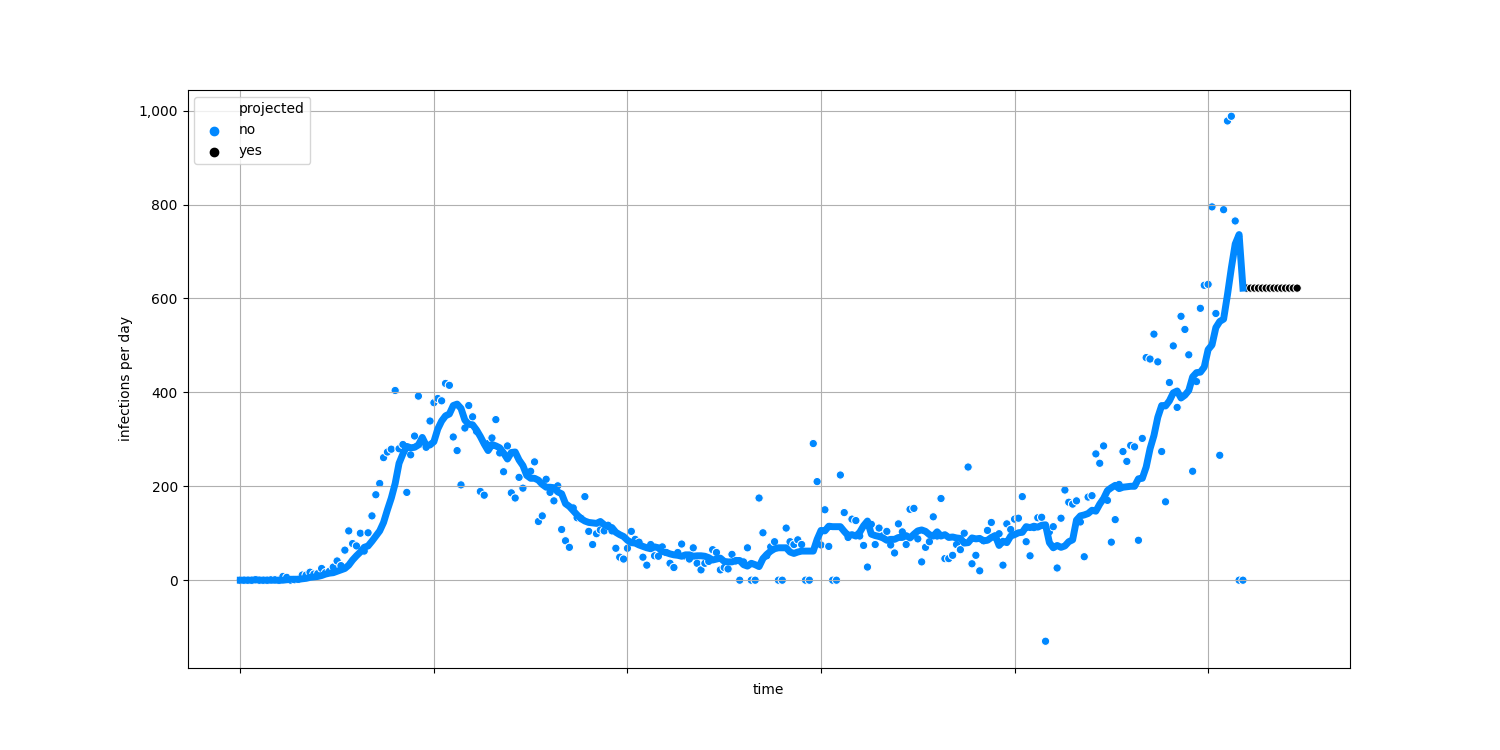
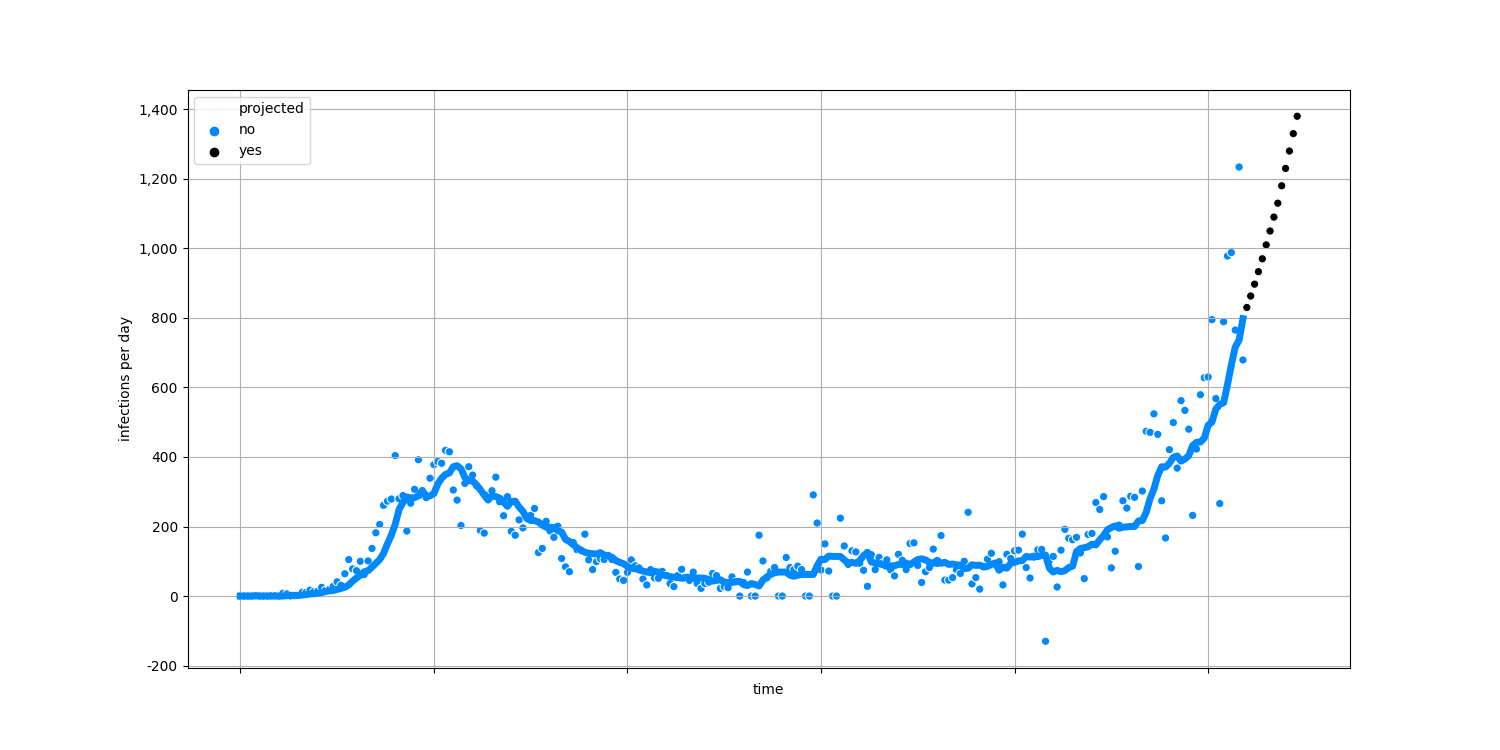
regular update

diff --git a/docs/table.html b/docs/table.html
@@ -100,7 +100,7 @@
     <script type="text/javascript">
       window.addEventListener('DOMContentLoaded', () => {
 
-        const data = [{'state': 'Alabama', 'deaths_per_million_per_day': '5', 'positive_per_million_per_day': '389'}, {'state': 'Alaska', 'deaths_per_million_per_day': '3', 'positive_per_million_per_day': '606'}, {'state': 'American Samoa', 'deaths_per_million_per_day': '0', 'positive_per_million_per_day': '0'}, {'state': 'Arizona', 'deaths_per_million_per_day': '3', 'positive_per_million_per_day': '307'}, {'state': 'Arkansas', 'deaths_per_million_per_day': '4', 'positive_per_million_per_day': '449'}, {'state': 'California', 'deaths_per_million_per_day': '1', 'positive_per_million_per_day': '186'}, {'state': 'Colorado', 'deaths_per_million_per_day': '2', 'positive_per_million_per_day': '733'}, {'state': 'Connecticut', 'deaths_per_million_per_day': '3', 'positive_per_million_per_day': '422'}, {'state': 'Delaware', 'deaths_per_million_per_day': '3', 'positive_per_million_per_day': '313'}, {'state': 'District of Columbia', 'deaths_per_million_per_day': '1', 'positive_per_million_per_day': '187'}, {'state': 'Florida', 'deaths_per_million_per_day': '3', 'positive_per_million_per_day': '247'}, {'state': 'Georgia', 'deaths_per_million_per_day': '4', 'positive_per_million_per_day': '177'}, {'state': 'Guam', 'deaths_per_million_per_day': '6', 'positive_per_million_per_day': '736'}, {'state': 'Hawaii', 'deaths_per_million_per_day': '0', 'positive_per_million_per_day': '73'}, {'state': 'Idaho', 'deaths_per_million_per_day': '6', 'positive_per_million_per_day': '709'}, {'state': 'Illinois', 'deaths_per_million_per_day': '7', 'positive_per_million_per_day': '958'}, {'state': 'Indiana', 'deaths_per_million_per_day': '6', 'positive_per_million_per_day': '831'}, {'state': 'Iowa', 'deaths_per_million_per_day': '6', 'positive_per_million_per_day': '1,200'}, {'state': 'Kansas', 'deaths_per_million_per_day': '4', 'positive_per_million_per_day': '876'}, {'state': 'Kentucky', 'deaths_per_million_per_day': '3', 'positive_per_million_per_day': '527'}, {'state': 'Louisiana', 'deaths_per_million_per_day': '3', 'positive_per_million_per_day': '316'}, {'state': 'Maine', 'deaths_per_million_per_day': '1', 'positive_per_million_per_day': '126'}, {'state': 'Maryland', 'deaths_per_million_per_day': '2', 'positive_per_million_per_day': '264'}, {'state': 'Massachusetts', 'deaths_per_million_per_day': '3', 'positive_per_million_per_day': '341'}, {'state': 'Michigan', 'deaths_per_million_per_day': '6', 'positive_per_million_per_day': '669'}, {'state': 'Minnesota', 'deaths_per_million_per_day': '6', 'positive_per_million_per_day': '1,040'}, {'state': 'Mississippi', 'deaths_per_million_per_day': '5', 'positive_per_million_per_day': '358'}, {'state': 'Missouri', 'deaths_per_million_per_day': '5', 'positive_per_million_per_day': '713'}, {'state': 'Montana', 'deaths_per_million_per_day': '9', 'positive_per_million_per_day': '927'}, {'state': 'Nebraska', 'deaths_per_million_per_day': '6', 'positive_per_million_per_day': '1,051'}, {'state': 'Nevada', 'deaths_per_million_per_day': '3', 'positive_per_million_per_day': '476'}, {'state': 'New Hampshire', 'deaths_per_million_per_day': '1', 'positive_per_million_per_day': '218'}, {'state': 'New Jersey', 'deaths_per_million_per_day': '2', 'positive_per_million_per_day': '356'}, {'state': 'New Mexico', 'deaths_per_million_per_day': '8', 'positive_per_million_per_day': '655'}, {'state': 'New York', 'deaths_per_million_per_day': '1', 'positive_per_million_per_day': '227'}, {'state': 'North Carolina', 'deaths_per_million_per_day': '2', 'positive_per_million_per_day': '243'}, {'state': 'North Dakota', 'deaths_per_million_per_day': '17', 'positive_per_million_per_day': '1,812'}, {'state': 'Northern Mariana Islands', 'deaths_per_million_per_day': '0', 'positive_per_million_per_day': '0'}, {'state': 'Ohio', 'deaths_per_million_per_day': '3', 'positive_per_million_per_day': '544'}, {'state': 'Oklahoma', 'deaths_per_million_per_day': '3', 'positive_per_million_per_day': '666'}, {'state': 'Oregon', 'deaths_per_million_per_day': '1', 'positive_per_million_per_day': '218'}, {'state': 'Pennsylvania', 'deaths_per_million_per_day': '3', 'positive_per_million_per_day': '357'}, {'state': 'Puerto Rico', 'deaths_per_million_per_day': '3', 'positive_per_million_per_day': '188'}, {'state': 'Rhode Island', 'deaths_per_million_per_day': '3', 'positive_per_million_per_day': '587'}, {'state': 'South Carolina', 'deaths_per_million_per_day': '3', 'positive_per_million_per_day': '257'}, {'state': 'South Dakota', 'deaths_per_million_per_day': '16', 'positive_per_million_per_day': '1,648'}, {'state': 'Tennessee', 'deaths_per_million_per_day': '6', 'positive_per_million_per_day': '563'}, {'state': 'Texas', 'deaths_per_million_per_day': '4', 'positive_per_million_per_day': '313'}, {'state': 'U.S. Virgin Islands', 'deaths_per_million_per_day': '0', 'positive_per_million_per_day': '57'}, {'state': 'Utah', 'deaths_per_million_per_day': '2', 'positive_per_million_per_day': '932'}, {'state': 'Vermont', 'deaths_per_million_per_day': '0', 'positive_per_million_per_day': '114'}, {'state': 'Virginia', 'deaths_per_million_per_day': '2', 'positive_per_million_per_day': '166'}, {'state': 'Washington', 'deaths_per_million_per_day': '1', 'positive_per_million_per_day': '211'}, {'state': 'West Virginia', 'deaths_per_million_per_day': '6', 'positive_per_million_per_day': '403'}, {'state': 'Wisconsin', 'deaths_per_million_per_day': '9', 'positive_per_million_per_day': '1,131'}, {'state': 'Wyoming', 'deaths_per_million_per_day': '10', 'positive_per_million_per_day': '1,305'}, {'state': 'United States', 'deaths_per_million_per_day': '3', 'positive_per_million_per_day': '427'}];
+        const data = [{'state': 'Alabama', 'deaths_per_million_per_day': '5', 'positive_per_million_per_day': '389'}, {'state': 'Alaska', 'deaths_per_million_per_day': '3', 'positive_per_million_per_day': '606'}, {'state': 'American Samoa', 'deaths_per_million_per_day': '0', 'positive_per_million_per_day': '0'}, {'state': 'Arizona', 'deaths_per_million_per_day': '3', 'positive_per_million_per_day': '307'}, {'state': 'Arkansas', 'deaths_per_million_per_day': '4', 'positive_per_million_per_day': '449'}, {'state': 'California', 'deaths_per_million_per_day': '1', 'positive_per_million_per_day': '186'}, {'state': 'Colorado', 'deaths_per_million_per_day': '2', 'positive_per_million_per_day': '733'}, {'state': 'Connecticut', 'deaths_per_million_per_day': '3', 'positive_per_million_per_day': '422'}, {'state': 'Delaware', 'deaths_per_million_per_day': '3', 'positive_per_million_per_day': '313'}, {'state': 'District of Columbia', 'deaths_per_million_per_day': '1', 'positive_per_million_per_day': '187'}, {'state': 'Florida', 'deaths_per_million_per_day': '3', 'positive_per_million_per_day': '247'}, {'state': 'Georgia', 'deaths_per_million_per_day': '4', 'positive_per_million_per_day': '177'}, {'state': 'Guam', 'deaths_per_million_per_day': '6', 'positive_per_million_per_day': '736'}, {'state': 'Hawaii', 'deaths_per_million_per_day': '0', 'positive_per_million_per_day': '73'}, {'state': 'Idaho', 'deaths_per_million_per_day': '6', 'positive_per_million_per_day': '709'}, {'state': 'Illinois', 'deaths_per_million_per_day': '7', 'positive_per_million_per_day': '958'}, {'state': 'Indiana', 'deaths_per_million_per_day': '6', 'positive_per_million_per_day': '831'}, {'state': 'Iowa', 'deaths_per_million_per_day': '6', 'positive_per_million_per_day': '1,200'}, {'state': 'Kansas', 'deaths_per_million_per_day': '4', 'positive_per_million_per_day': '876'}, {'state': 'Kentucky', 'deaths_per_million_per_day': '3', 'positive_per_million_per_day': '527'}, {'state': 'Louisiana', 'deaths_per_million_per_day': '3', 'positive_per_million_per_day': '316'}, {'state': 'Maine', 'deaths_per_million_per_day': '1', 'positive_per_million_per_day': '126'}, {'state': 'Maryland', 'deaths_per_million_per_day': '2', 'positive_per_million_per_day': '264'}, {'state': 'Massachusetts', 'deaths_per_million_per_day': '3', 'positive_per_million_per_day': '341'}, {'state': 'Michigan', 'deaths_per_million_per_day': '6', 'positive_per_million_per_day': '669'}, {'state': 'Minnesota', 'deaths_per_million_per_day': '6', 'positive_per_million_per_day': '1,040'}, {'state': 'Mississippi', 'deaths_per_million_per_day': '5', 'positive_per_million_per_day': '358'}, {'state': 'Missouri', 'deaths_per_million_per_day': '5', 'positive_per_million_per_day': '713'}, {'state': 'Montana', 'deaths_per_million_per_day': '9', 'positive_per_million_per_day': '927'}, {'state': 'Nebraska', 'deaths_per_million_per_day': '6', 'positive_per_million_per_day': '1,051'}, {'state': 'Nevada', 'deaths_per_million_per_day': '3', 'positive_per_million_per_day': '476'}, {'state': 'New Hampshire', 'deaths_per_million_per_day': '1', 'positive_per_million_per_day': '218'}, {'state': 'New Jersey', 'deaths_per_million_per_day': '2', 'positive_per_million_per_day': '356'}, {'state': 'New Mexico', 'deaths_per_million_per_day': '8', 'positive_per_million_per_day': '655'}, {'state': 'New York', 'deaths_per_million_per_day': '1', 'positive_per_million_per_day': '227'}, {'state': 'North Carolina', 'deaths_per_million_per_day': '2', 'positive_per_million_per_day': '243'}, {'state': 'North Dakota', 'deaths_per_million_per_day': '17', 'positive_per_million_per_day': '1,812'}, {'state': 'Northern Mariana Islands', 'deaths_per_million_per_day': '0', 'positive_per_million_per_day': '0'}, {'state': 'Ohio', 'deaths_per_million_per_day': '3', 'positive_per_million_per_day': '544'}, {'state': 'Oklahoma', 'deaths_per_million_per_day': '3', 'positive_per_million_per_day': '666'}, {'state': 'Oregon', 'deaths_per_million_per_day': '1', 'positive_per_million_per_day': '218'}, {'state': 'Pennsylvania', 'deaths_per_million_per_day': '3', 'positive_per_million_per_day': '357'}, {'state': 'Puerto Rico', 'deaths_per_million_per_day': '3', 'positive_per_million_per_day': '188'}, {'state': 'Rhode Island', 'deaths_per_million_per_day': '4', 'positive_per_million_per_day': '753'}, {'state': 'South Carolina', 'deaths_per_million_per_day': '3', 'positive_per_million_per_day': '257'}, {'state': 'South Dakota', 'deaths_per_million_per_day': '16', 'positive_per_million_per_day': '1,648'}, {'state': 'Tennessee', 'deaths_per_million_per_day': '6', 'positive_per_million_per_day': '563'}, {'state': 'Texas', 'deaths_per_million_per_day': '4', 'positive_per_million_per_day': '313'}, {'state': 'U.S. Virgin Islands', 'deaths_per_million_per_day': '0', 'positive_per_million_per_day': '57'}, {'state': 'Utah', 'deaths_per_million_per_day': '2', 'positive_per_million_per_day': '932'}, {'state': 'Vermont', 'deaths_per_million_per_day': '0', 'positive_per_million_per_day': '114'}, {'state': 'Virginia', 'deaths_per_million_per_day': '2', 'positive_per_million_per_day': '166'}, {'state': 'Washington', 'deaths_per_million_per_day': '1', 'positive_per_million_per_day': '211'}, {'state': 'West Virginia', 'deaths_per_million_per_day': '6', 'positive_per_million_per_day': '403'}, {'state': 'Wisconsin', 'deaths_per_million_per_day': '9', 'positive_per_million_per_day': '1,131'}, {'state': 'Wyoming', 'deaths_per_million_per_day': '10', 'positive_per_million_per_day': '1,305'}, {'state': 'United States', 'deaths_per_million_per_day': '3', 'positive_per_million_per_day': '427'}];
 
         const render = () => {
           const tbody = document.querySelector('tbody');

diff --git a/docs/RI.html b/docs/RI.html
@@ -73,20 +73,20 @@
       </div>
         <div class="grid-col-9">
           <h1 class="font-body-2xl">
-            Rhode Island has had about 1,254 COVID-19 deaths and
-            41,529 confirmed cases.
+            Rhode Island has had about 1,265 COVID-19 deaths and
+            43,442 confirmed cases.
             <small>
-              That's about <strong>39,202 out of every
+              That's about <strong>41,008 out of every
               1,000,000</strong> people who we know are or have
-              been infected. About <strong>3.02%</strong>
+              been infected. About <strong>2.91%</strong>
               of people who have tested positive have died.
             </small>
           </h1>
 
           <p class="font-body-md">
-            There are about <strong>3</strong> new
+            There are about <strong>4</strong> new
             deaths every day (7-day average). At this rate, about
-            <strong>1,280</strong> total people
+            <strong>1,290</strong> total people
             will have died of COVID-19 in 7 days. This chart shows the number of
             deaths each day since the first case was identified. The dots are
             the total number of deaths for each day and the line is the average
@@ -95,10 +95,10 @@
           </p>
 
           <p class="font-body-md">
-            There are about <strong>622</strong> new
+            There are about <strong>798</strong> new
             cases identified every day (7-day average). At the current rate, the total number of
             confirmed cases will be about <strong>
-            45,900</strong> in 7 days. This chart
+            50,000</strong> in 7 days. This chart
             shows the number of new cases each day since the first case was
             identified. The dots are the total number of new cases for each day
             and the line is the average of the previous seven days.
